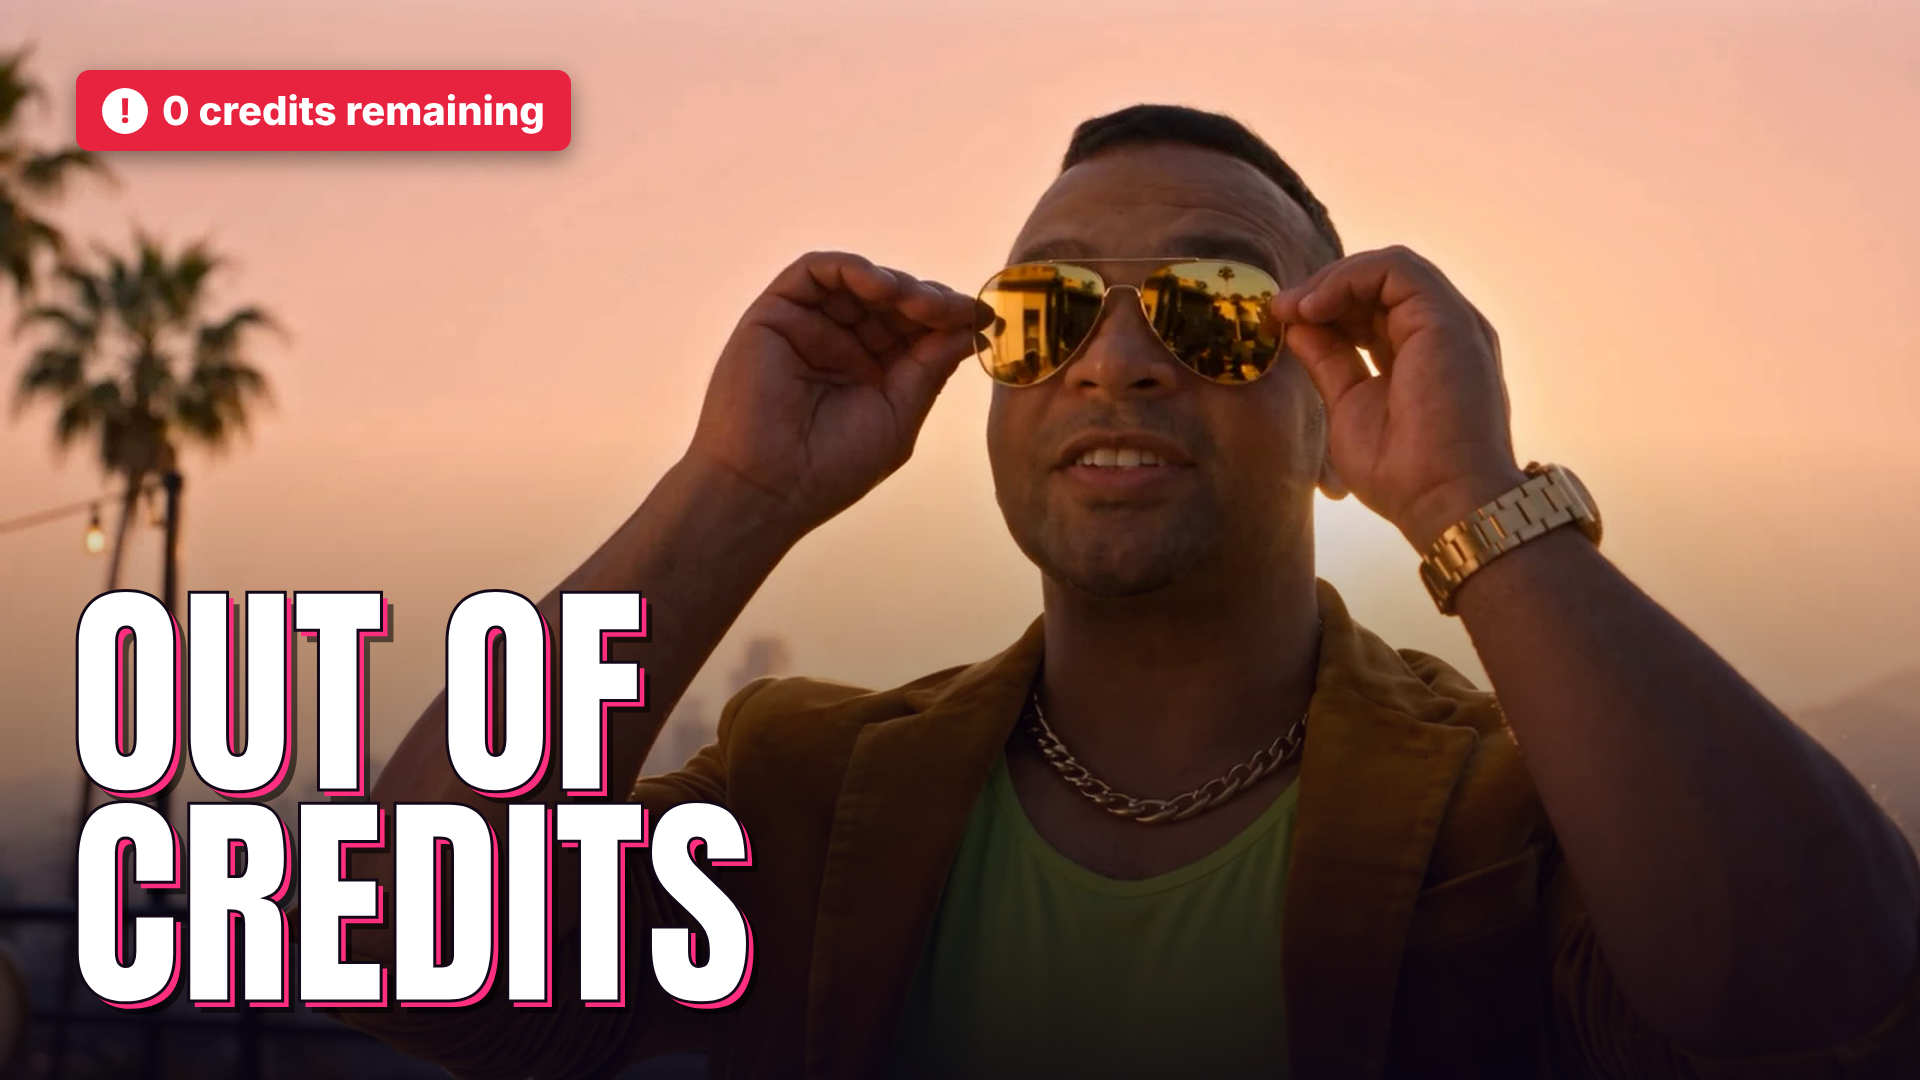
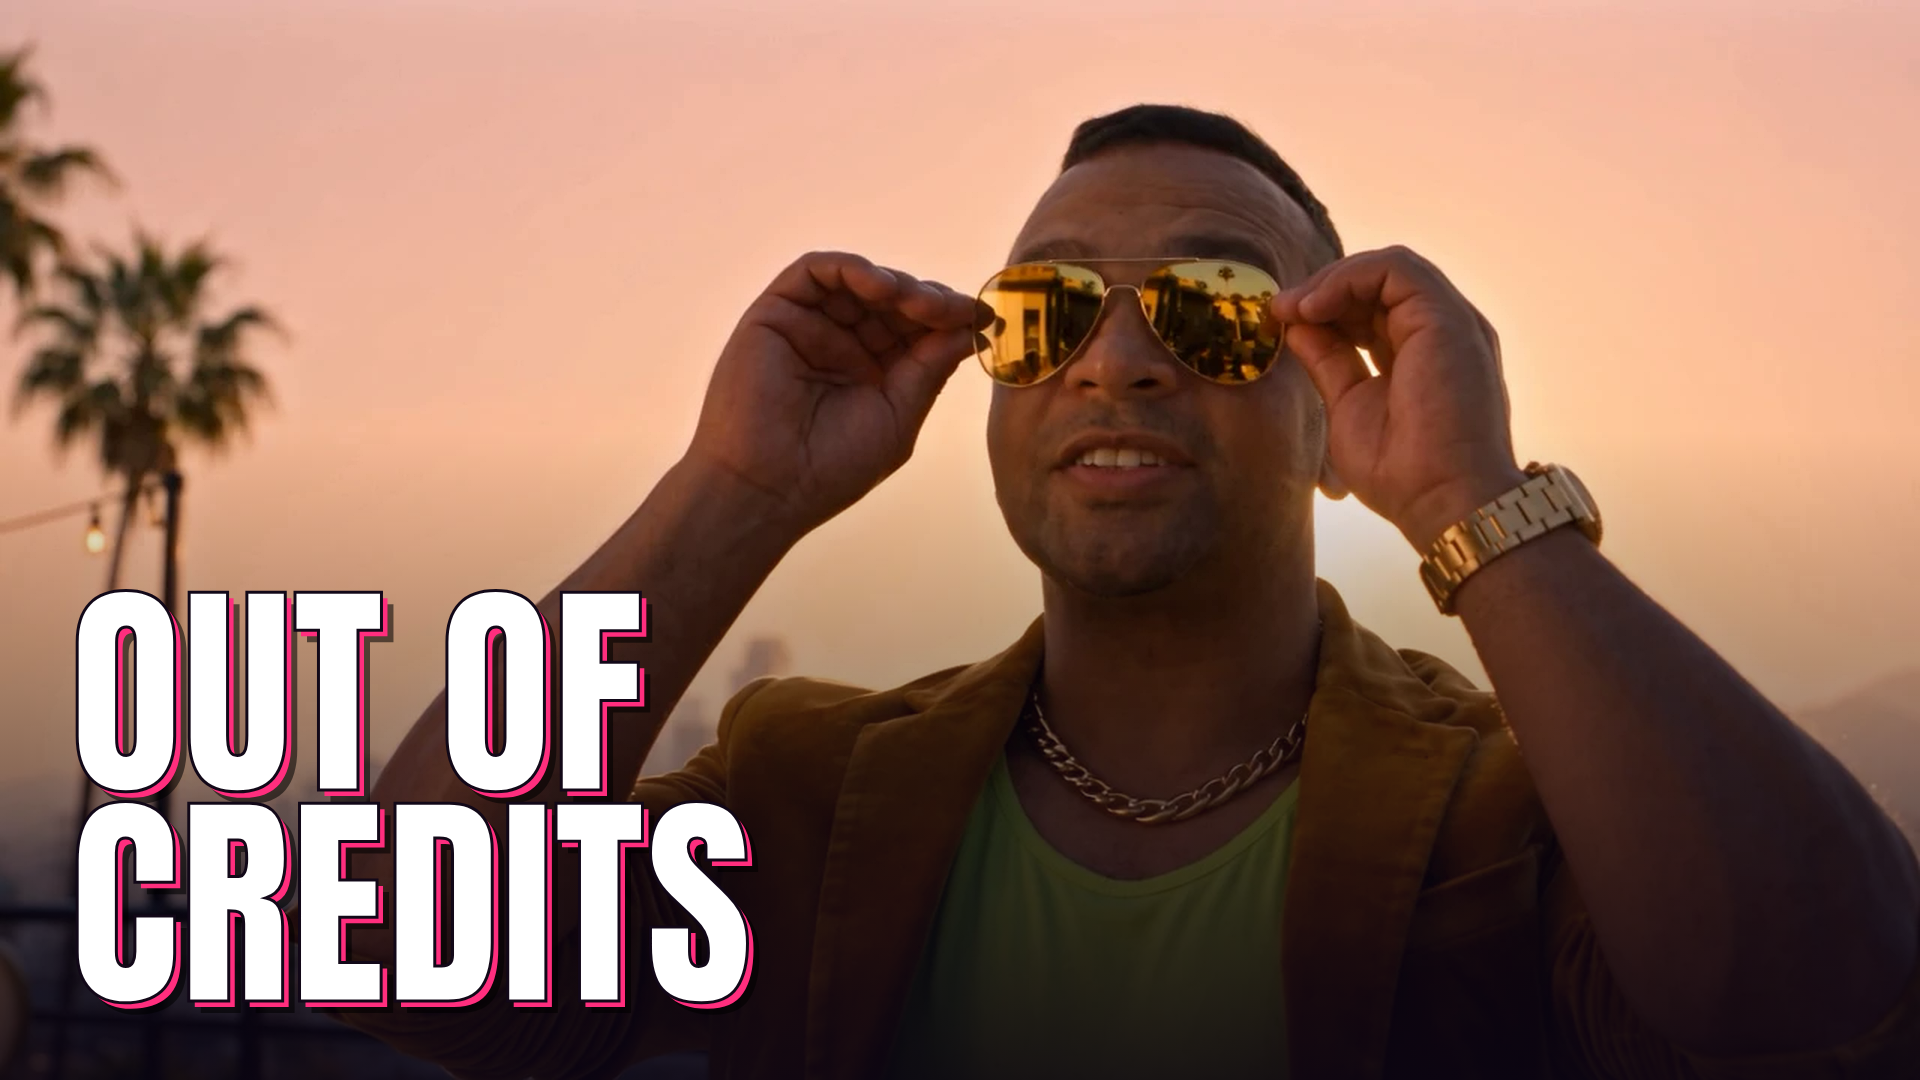
Remove badge from Out of Credits thumbnails
Claude-Session: https://claude.ai/code/session_012UEzt2HBa9EXxyn1TA5LEc

Changed region(s): [[0.0312, 0.0611, 0.3125, 0.1528]]

diff --git a/dev-year-in-review/screen_insert/thumbnail/thumb.html b/dev-year-in-review/screen_insert/thumbnail/thumb.html
@@ -13,7 +13,7 @@ html,body{margin:0;overflow:hidden;background:#000}
 </style></head><body>
 <div class="wrap" id="w"><div class="bg" id="bg"></div><div class="grad"></div>
 <div class="title" id="t">Out of<br>Credits</div>
-<div class="badge" id="b"><span class="dot" id="d">!</span><span>0 credits remaining</span></div></div>
+<div class="badge" id="b" style="display:none"><span class="dot" id="d"></span></div></div>
 <script>
 const p=new URLSearchParams(location.search); const W=+p.get('w'), H=+p.get('h');
 const w=document.getElementById('w'); w.style.width=W+'px'; w.style.height=H+'px';
@@ -23,7 +23,7 @@ if(W>H){ bg.style.backgroundSize='cover'; bg.style.backgroundPosition='center';
   b.style.left='76px'; b.style.top='70px'; b.style.fontSize='40px'; b.style.padding='16px 26px';
   d.style.width='46px'; d.style.height='46px'; d.style.lineHeight='46px'; d.style.fontSize='34px';
 } else { bg.style.backgroundSize='auto 100%'; bg.style.backgroundPosition='60% center';
-  t.style.left='0'; t.style.right='0'; t.style.textAlign='center'; t.style.bottom='420px'; t.style.fontSize='250px';
+  t.style.left='0'; t.style.right='0'; t.style.textAlign='center'; t.style.bottom='340px'; t.style.fontSize='250px';
   b.style.left='50%'; b.style.transform='translateX(-50%)'; b.style.bottom='310px'; b.style.fontSize='44px'; b.style.padding='18px 30px'; b.style.whiteSpace='nowrap';
   d.style.width='52px'; d.style.height='52px'; d.style.lineHeight='52px'; d.style.fontSize='38px'; }
 </script></body></html>
